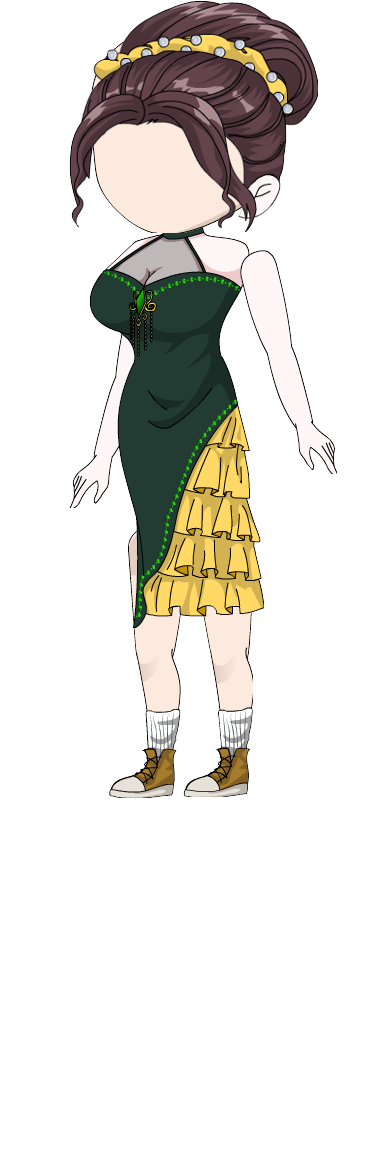
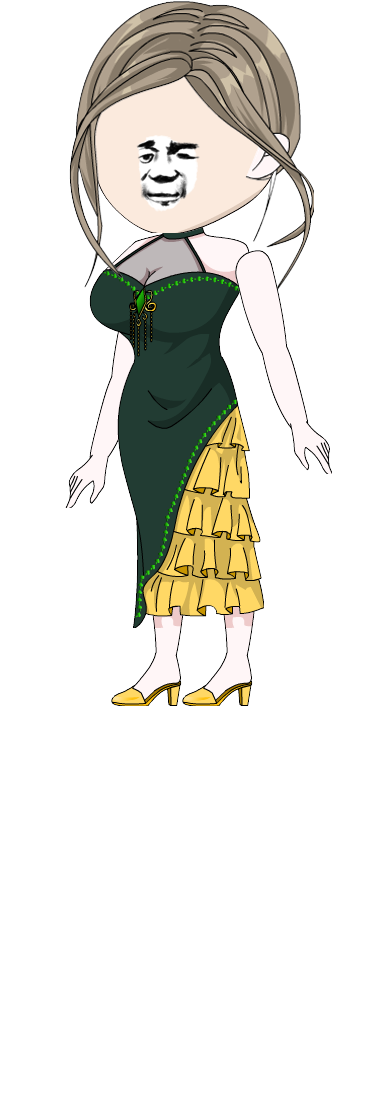
整理表情

Changed region(s): [[0.1774, 0.0, 0.9167, 0.7007], [0.4435, 0.3656, 0.4731, 0.3961]]

diff --git a/main.py b/main.py
@@ -128,7 +128,7 @@ def expression_left_top_pos(images):  # pil 坐标的原点在 左上角
     head_center_x, head_center_y = (head_x + head_width//2, head_y + head_height // 2)
 
     EXPRESSION_INTO_FACE_X = -15
-    EXPRESSION_INTO_FACE_Y = 25
+    EXPRESSION_INTO_FACE_Y = 35
 
     new_expression_img = expression_adapt_to_width_of_head(images)
 
@@ -263,7 +263,7 @@ def merge_man(images, have_hair = True, have_left_leg = True):   # pil 坐标的
 
     # 默认提供的表情图片太小，先放大
     # result_image.paste(images['expression'], expression_left_top_pos(images), mask=images['expression'])  # 表情
-    # result_image.paste(expression_adapt_to_width_of_head(images), expression_left_top_pos(images), mask=expression_adapt_to_width_of_head(images))  # 表情
+    result_image.paste(expression_adapt_to_width_of_head(images), expression_left_top_pos(images), mask=expression_adapt_to_width_of_head(images))  # 表情
 
     if have_hair: 
         result_image.paste(resize_hair(images), hair_top_pos(images), mask=resize_hair(images))  # 头发
